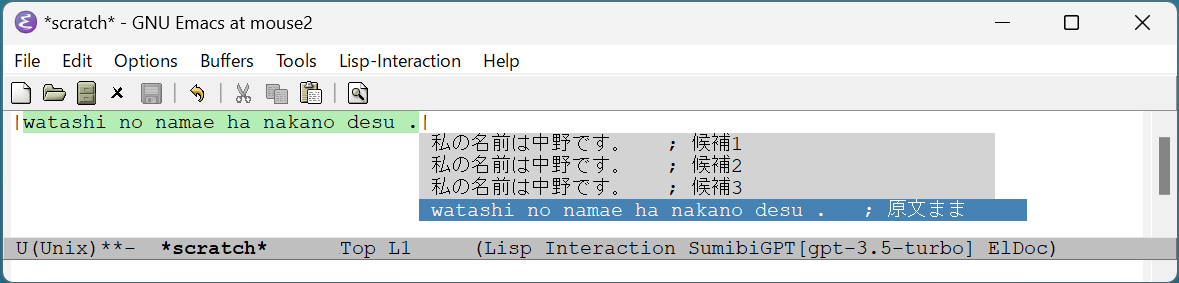
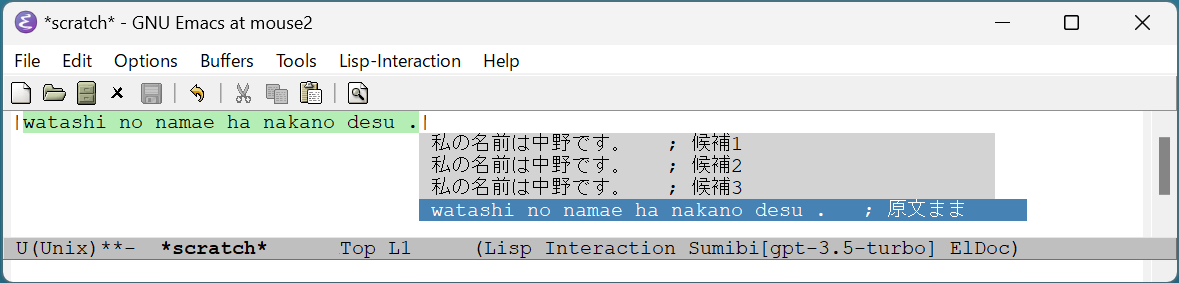
Implemented issue #6
・以下の要望を実現した。
GPT-3.5-TurboとGPT-4のモデルを動的に切り替えられるようにしたい
・マニュアルも改訂した。

Changed region(s): [[0.6412, 0.8481, 0.916, 0.9046]]

diff --git a/README.md b/README.md
@@ -54,9 +54,16 @@ Emacsを再起動するとSumibiがステータスバーに表示されます。
 
 ## 日本語から英語への翻訳
 
-日本語の文章をregion選択した状態で、ESC を押してから j を入力すると、英語に翻訳されます。
+日本語の文章をregion選択した状態で、ESC 、 j を順に入力すると選択範囲が英語に翻訳されます。
 
-「ESC を押してから j」は、代わりに ALT+j でも入力可能です。
+「ESC 、j」は、代わりに ALT+j でも入力可能です。
+
+## GPTの利用モデルの切り替え
+
+M-x sumibi-switch-modelでポップアップから利用モデルを動的に変更することができます。
+
+デフォルトでは、"gpt-3.5-turbo"と"gpt-4"の二つから選択できます。
+選択肢を増やしたい場合は、カスタマイズ変数 `sumibi-model-list` に候補を追加してください。
 
 ## Undo
 
